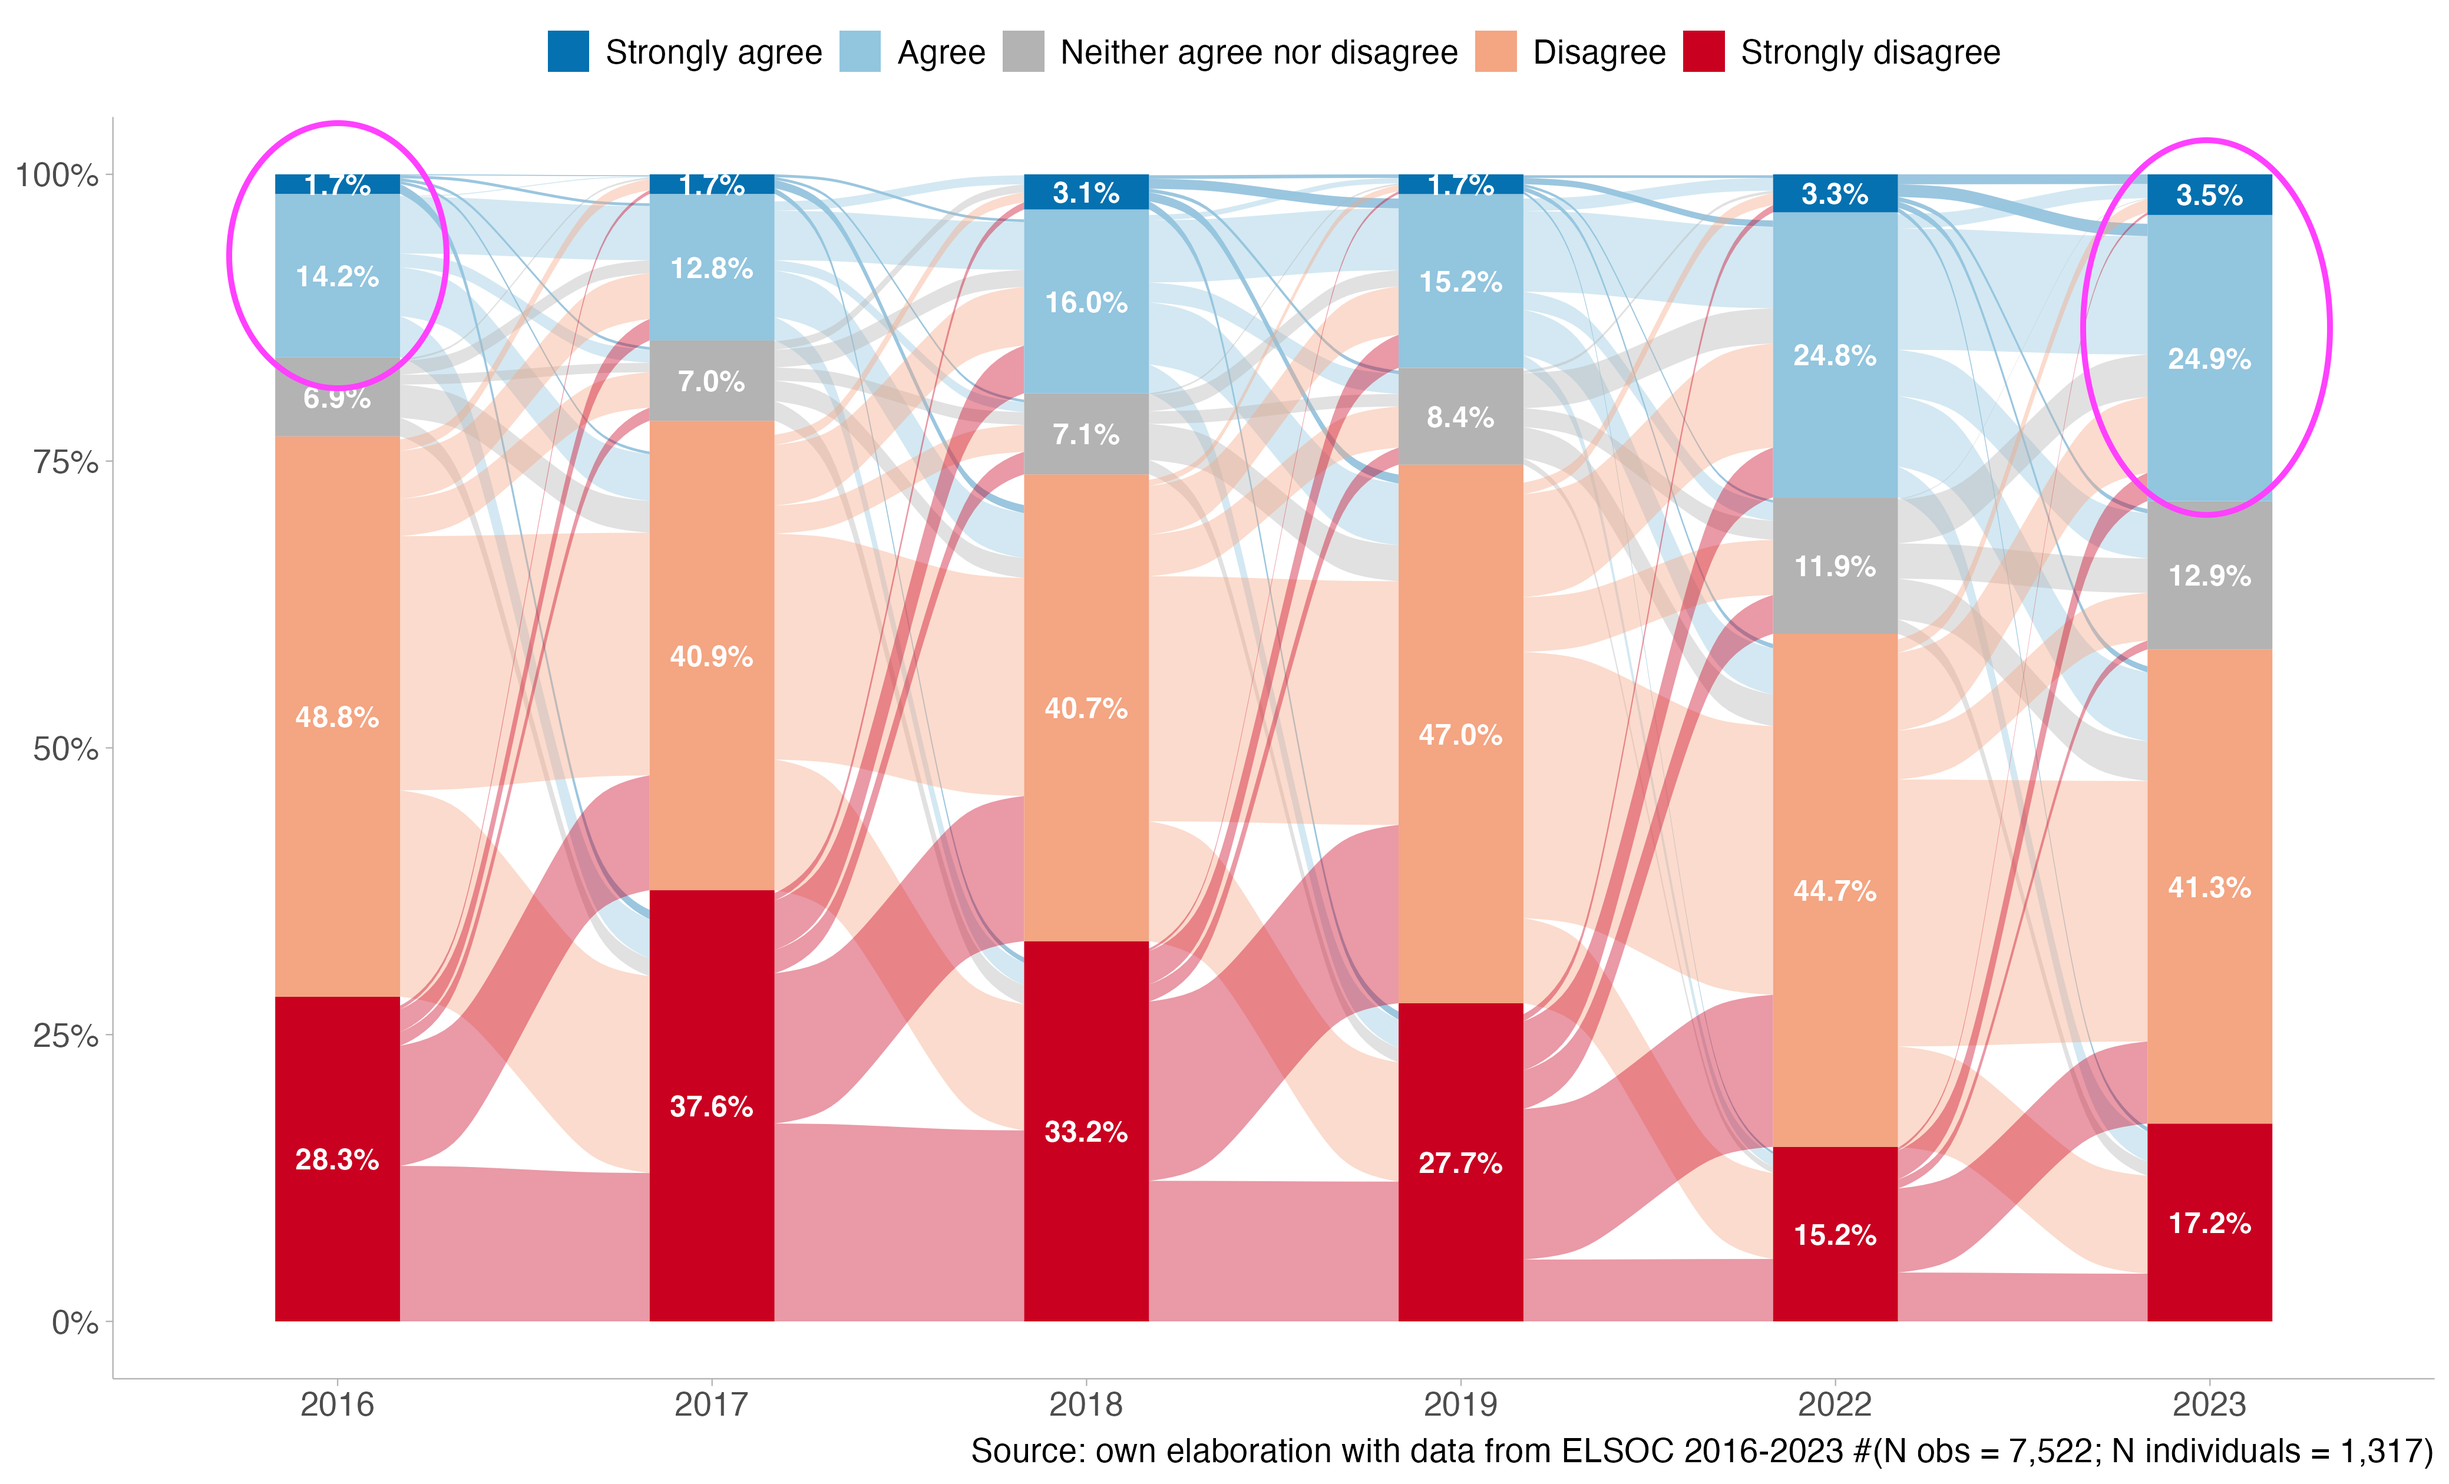
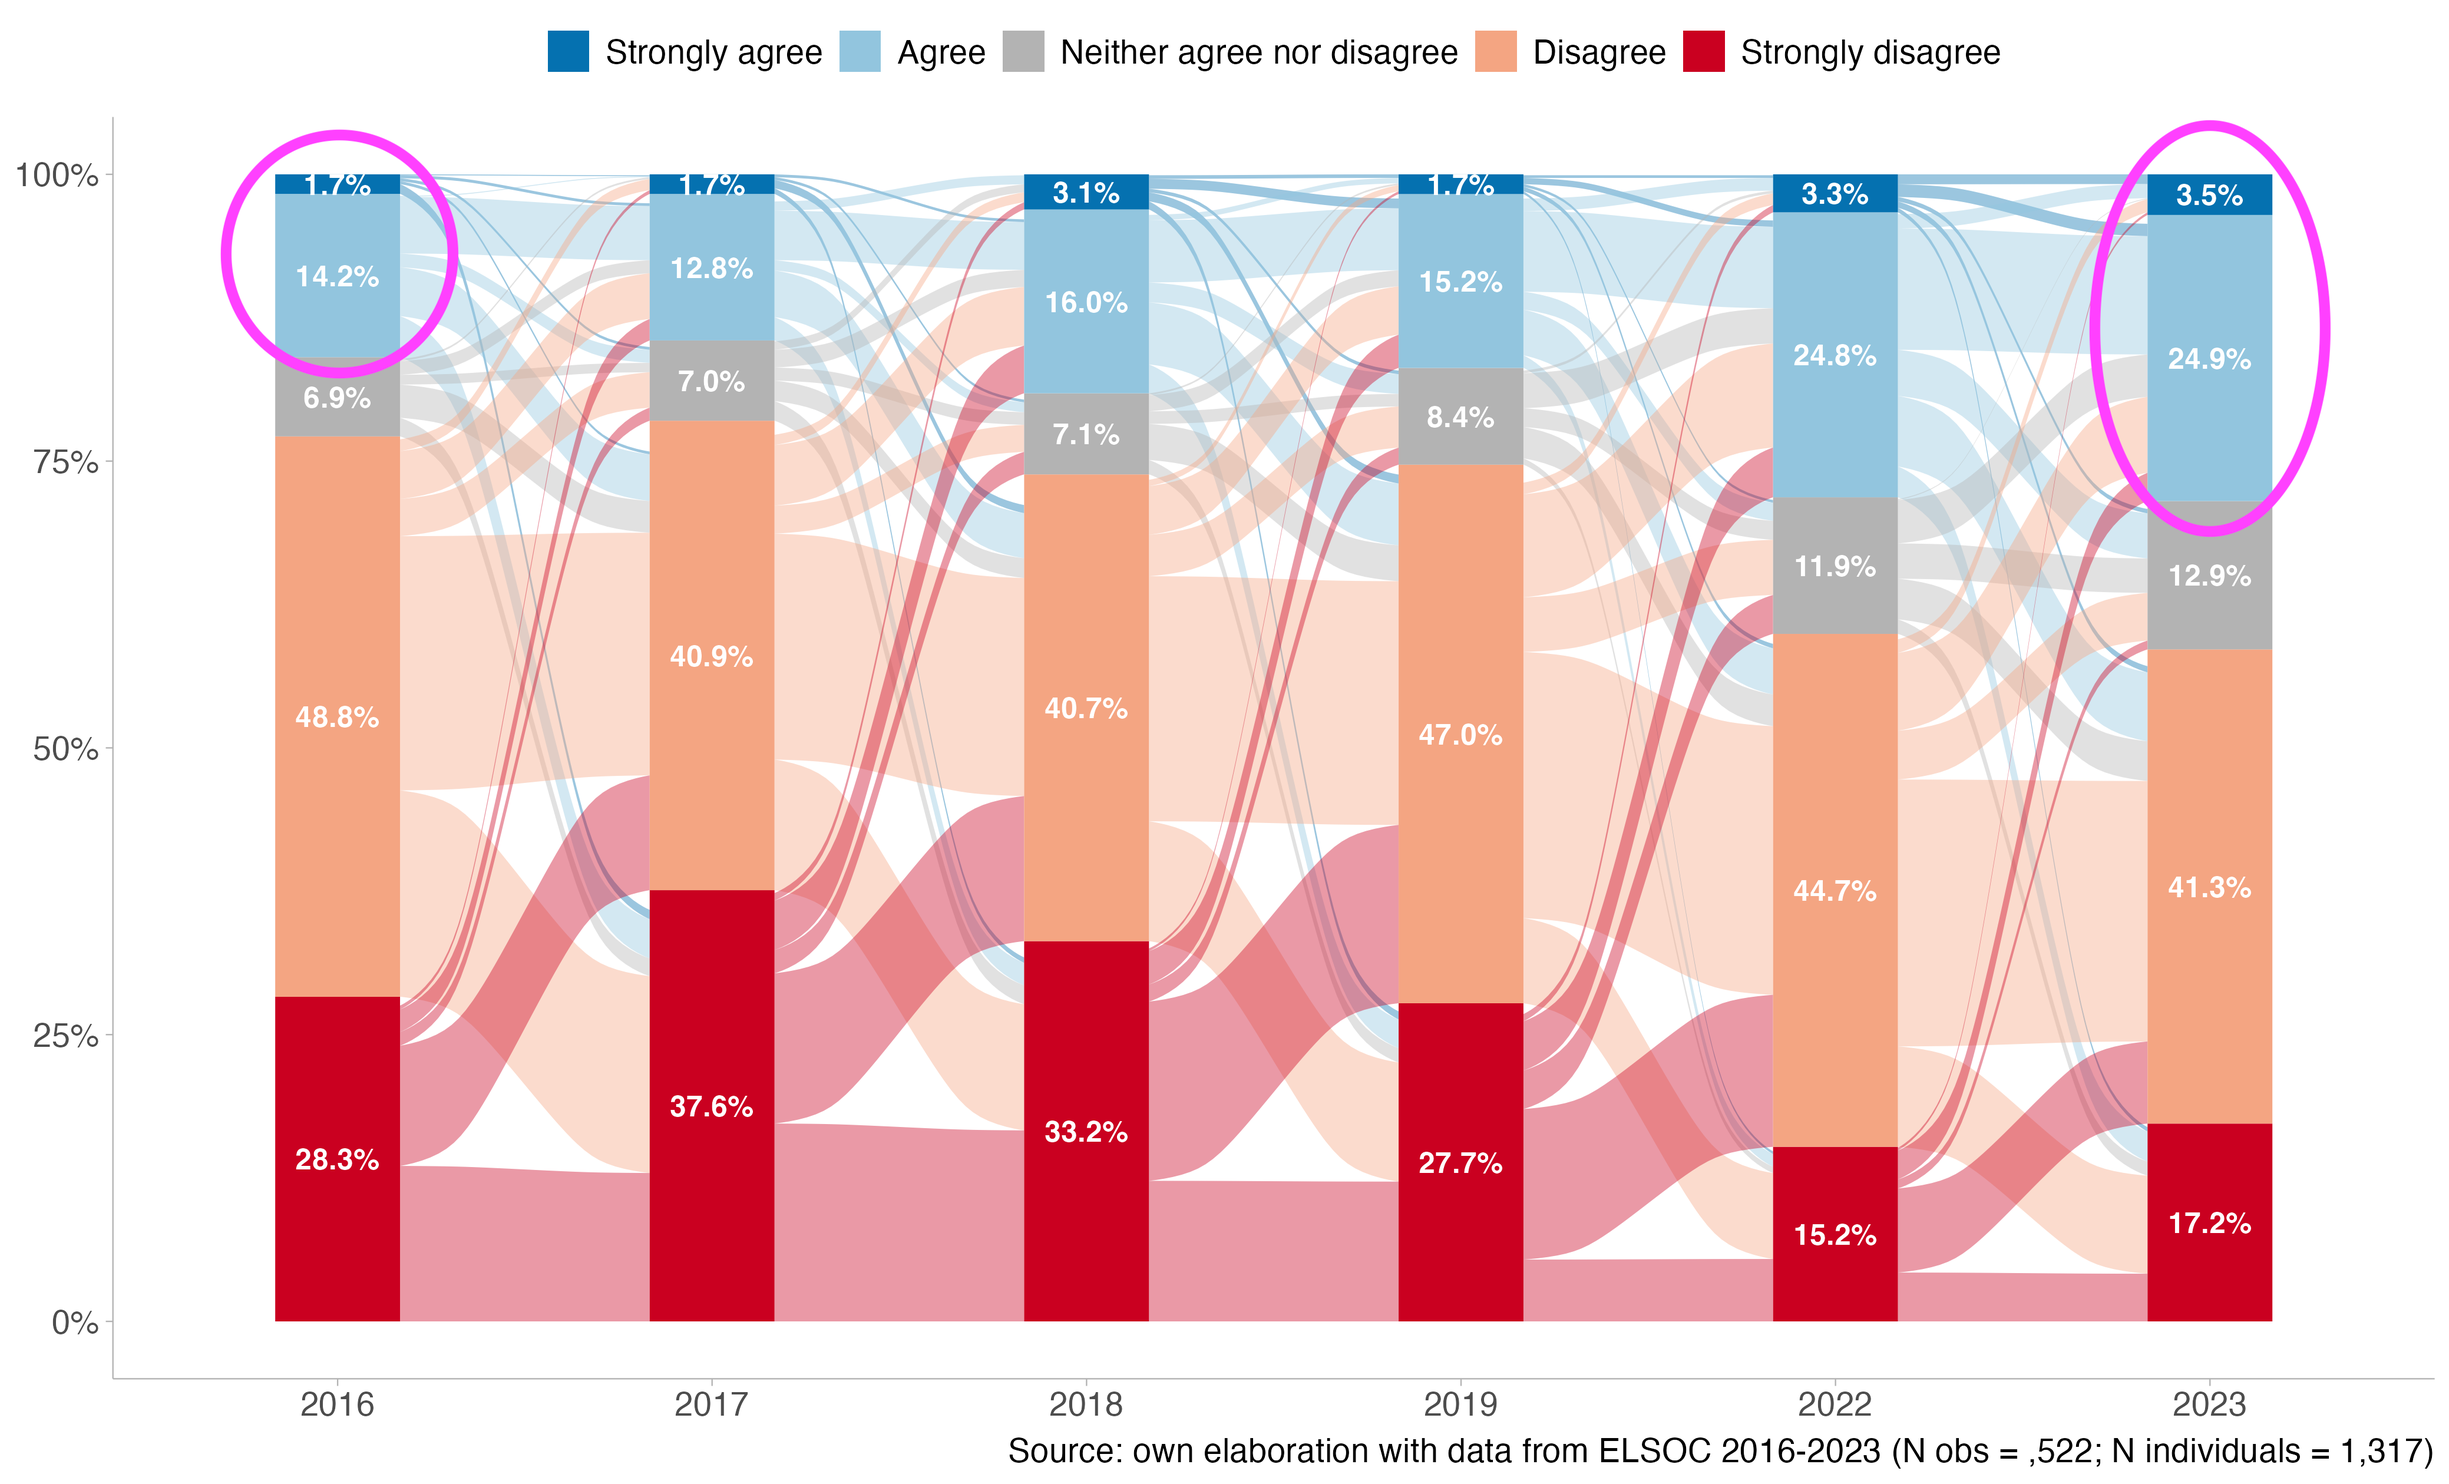
Up dv image

diff --git a/presentations/In_equality-Conference-2026/In_equality-Conference-2026.html b/presentations/In_equality-Conference-2026/In_equality-Conference-2026.html
@@ -365,7 +365,7 @@ René Canales (RA)
 <div class="fragment">
 <div class="cell fig-cap-location-bottom" data-layout-align="center">
 <div class="cell-output-display">
-<div id="fig-esque0" class="quarto-float quarto-figure quarto-figure-center" data-fig-align="center" data-cap-location="bottom">
+<div id="fig-esque0" class="quarto-float quarto-figure quarto-figure-center" data-cap-location="bottom" data-fig-align="center">
 <figure class="quarto-float quarto-float-fig">
 <div aria-describedby="fig-esque0-caption-0ceaefa1-69ba-4598-a22c-09a6ac19f8ca">
 <img data-src="images/hipo3.png" class="quarto-figure quarto-figure-center" style="width:100.0%">
@@ -428,7 +428,7 @@ Figure&nbsp;1: Hypotheses diagram
 <div class="fragment">
 <div class="cell fig-cap-location-bottom" data-layout-align="center">
 <div class="cell-output-display">
-<div id="fig-desc" class="quarto-float quarto-figure quarto-figure-center" data-fig-align="center" data-cap-location="bottom">
+<div id="fig-desc" class="quarto-float quarto-figure quarto-figure-center" data-cap-location="bottom" data-fig-align="center">
 <figure class="quarto-float quarto-float-fig">
 <div aria-describedby="fig-desc-caption-0ceaefa1-69ba-4598-a22c-09a6ac19f8ca">
 <img data-src="images/dv_alluvial.png" class="quarto-figure quarto-figure-center" style="width:85.0%">
@@ -462,7 +462,7 @@ Figure&nbsp;2: Distribution of responses for preferences for market justice in p
 <h2>Independent variables: Level 1</h2>
 <div class="cell fig-cap-location-bottom" data-layout-align="center">
 <div class="cell-output-display">
-<div id="fig-merit" class="quarto-float quarto-figure quarto-figure-center" data-fig-align="center" data-cap-location="bottom">
+<div id="fig-merit" class="quarto-float quarto-figure quarto-figure-center" data-cap-location="bottom" data-fig-align="center">
 <figure class="quarto-float quarto-float-fig">
 <div aria-describedby="fig-merit-caption-0ceaefa1-69ba-4598-a22c-09a6ac19f8ca">
 <img data-src="In_equality-Conference-2026_files/figure-revealjs/fig-merit-1.png" class="quarto-figure quarto-figure-center" style="width:90.0%">
@@ -479,7 +479,7 @@ Figure&nbsp;3: Distribution of responses for meritocracy items
 <h2>Independent variables: Level 2</h2>
 <div class="cell fig-cap-location-bottom" data-layout-align="center">
 <div class="cell-output-display">
-<div id="fig-class" class="quarto-float quarto-figure quarto-figure-center" data-fig-align="center" data-cap-location="bottom">
+<div id="fig-class" class="quarto-float quarto-figure quarto-figure-center" data-cap-location="bottom" data-fig-align="center">
 <figure class="quarto-float quarto-float-fig">
 <div aria-describedby="fig-class-caption-0ceaefa1-69ba-4598-a22c-09a6ac19f8ca">
 <img data-src="In_equality-Conference-2026_files/figure-revealjs/fig-class-1.png" class="quarto-figure quarto-figure-center" style="width:90.0%">
@@ -526,7 +526,7 @@ Figure&nbsp;4: Frecuency of class position
 <h2>Models</h2>
 <div class="cell fig-cap-location-bottom" data-layout-align="center">
 <div class="cell-output-display">
-<div id="fig-model_time" class="quarto-float quarto-figure quarto-figure-center" data-fig-align="center" data-cap-location="bottom">
+<div id="fig-model_time" class="quarto-float quarto-figure quarto-figure-center" data-cap-location="bottom" data-fig-align="center">
 <figure class="quarto-float quarto-float-fig">
 <div aria-describedby="fig-model_time-caption-0ceaefa1-69ba-4598-a22c-09a6ac19f8ca">
 <img data-src="In_equality-Conference-2026_files/figure-revealjs/fig-model_time-1.png" class="quarto-figure quarto-figure-center" style="width:90.0%">
@@ -548,7 +548,7 @@ Figure&nbsp;5: Changes across waves in market justice preferences in pensions
 <h2>Models</h2>
 <div class="cell fig-cap-location-bottom" data-layout-align="center">
 <div class="cell-output-display">
-<div id="fig-model_be_we_controls" class="quarto-float quarto-figure quarto-figure-center" data-fig-align="center" data-cap-location="bottom">
+<div id="fig-model_be_we_controls" class="quarto-float quarto-figure quarto-figure-center" data-cap-location="bottom" data-fig-align="center">
 <figure class="quarto-float quarto-float-fig">
 <div aria-describedby="fig-model_be_we_controls-caption-0ceaefa1-69ba-4598-a22c-09a6ac19f8ca">
 <img data-src="In_equality-Conference-2026_files/figure-revealjs/fig-model_be_we_controls-1.png" class="quarto-figure quarto-figure-center" style="width:90.0%">
@@ -590,7 +590,7 @@ Figure&nbsp;6: Main within- and between-person effects on market justice prefere
 <h2>The role of income and education</h2>
 <div class="cell fig-cap-location-bottom" data-layout-align="center">
 <div class="cell-output-display">
-<div id="fig-income" class="quarto-float quarto-figure quarto-figure-center" data-fig-align="center" data-cap-location="bottom">
+<div id="fig-income" class="quarto-float quarto-figure quarto-figure-center" data-cap-location="bottom" data-fig-align="center">
 <figure class="quarto-float quarto-float-fig">
 <div aria-describedby="fig-income-caption-0ceaefa1-69ba-4598-a22c-09a6ac19f8ca">
 <img data-src="images/income_regression.png" class="quarto-figure quarto-figure-center" style="width:90.0%">
@@ -854,7 +854,7 @@ Figure&nbsp;8: Distribution of responses on the scale of perceptions and prefere
 <h2>Model</h2>
 <div class="cell fig-cap-location-bottom" data-layout-align="center">
 <div class="cell-output-display">
-<div id="fig-sem" class="quarto-float quarto-figure quarto-figure-center" data-fig-align="center" data-cap-location="bottom">
+<div id="fig-sem" class="quarto-float quarto-figure quarto-figure-center" data-cap-location="bottom" data-fig-align="center">
 <figure class="quarto-float quarto-float-fig">
 <div aria-describedby="fig-sem-caption-0ceaefa1-69ba-4598-a22c-09a6ac19f8ca">
 <img data-src="images/sem.png" class="quarto-figure quarto-figure-center" style="width:100.0%">
@@ -1037,7 +1037,7 @@ Figure&nbsp;10: Correlation matrix between market justice and meritocracy scale
 <h2>MIMIC Model: Education</h2>
 <div class="cell fig-cap-location-bottom" data-layout-align="center">
 <div class="cell-output-display">
-<div id="fig-educ" class="quarto-float quarto-figure quarto-figure-center" data-fig-align="center" data-cap-location="bottom">
+<div id="fig-educ" class="quarto-float quarto-figure quarto-figure-center" data-cap-location="bottom" data-fig-align="center">
 <figure class="quarto-float quarto-float-fig">
 <div aria-describedby="fig-educ-caption-0ceaefa1-69ba-4598-a22c-09a6ac19f8ca">
 <img data-src="images/sem2.png" class="quarto-figure quarto-figure-center" style="width:100.0%">
@@ -1054,7 +1054,7 @@ Figure&nbsp;11: MIMIC Model for market justice preferences in education
 <h2>MIMIC Model: Healthcare</h2>
 <div class="cell fig-cap-location-bottom" data-layout-align="center">
 <div class="cell-output-display">
-<div id="fig-health" class="quarto-float quarto-figure quarto-figure-center" data-fig-align="center" data-cap-location="bottom">
+<div id="fig-health" class="quarto-float quarto-figure quarto-figure-center" data-cap-location="bottom" data-fig-align="center">
 <figure class="quarto-float quarto-float-fig">
 <div aria-describedby="fig-health-caption-0ceaefa1-69ba-4598-a22c-09a6ac19f8ca">
 <img data-src="images/sem3.png" class="quarto-figure quarto-figure-center" style="width:100.0%">
